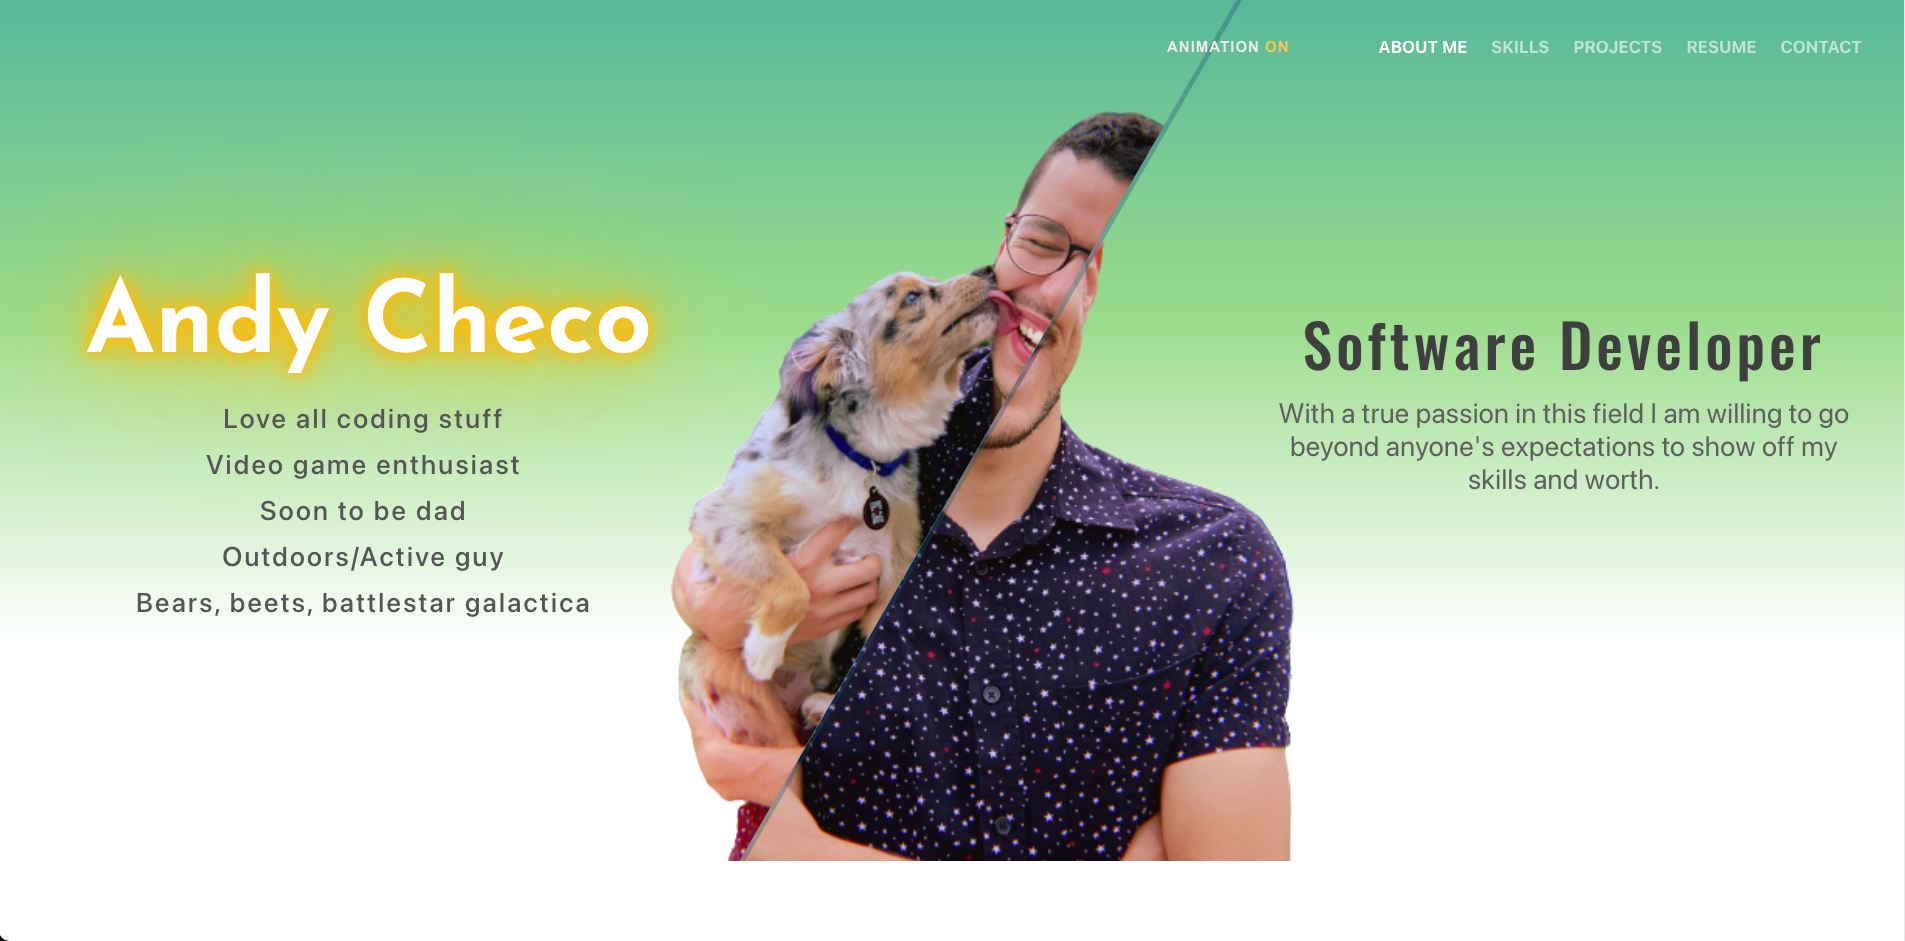
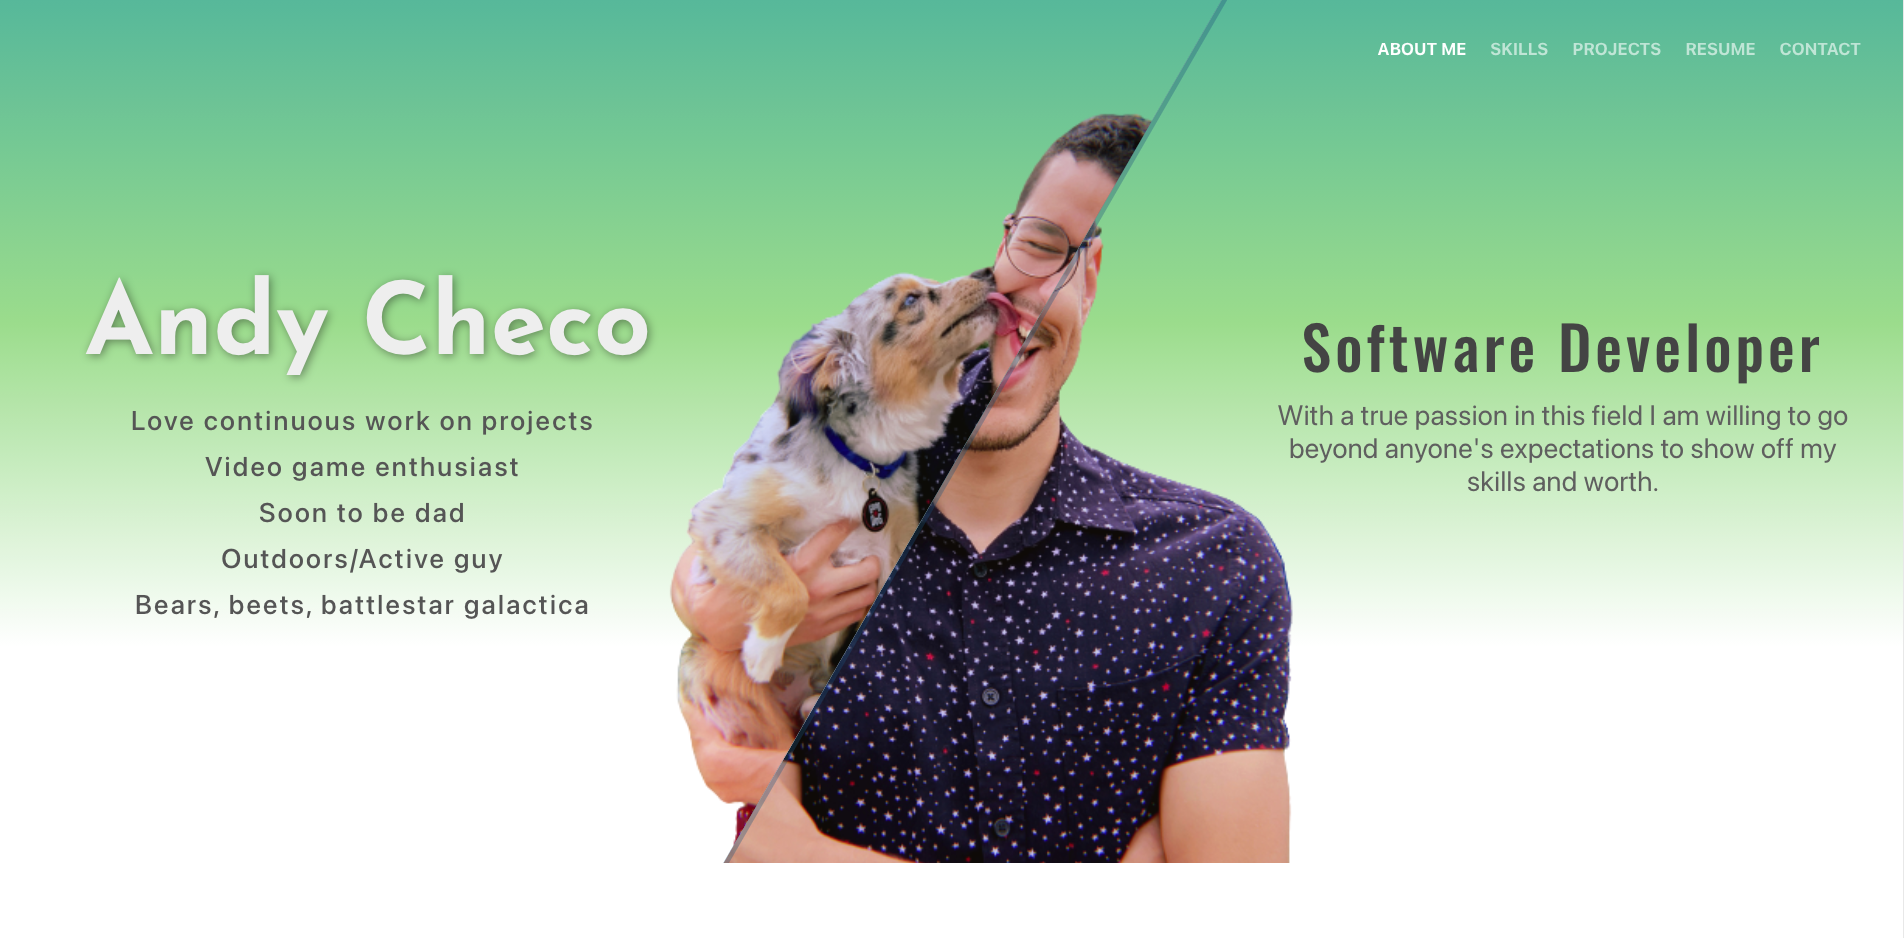
changes to the header and more details to the projects

diff --git a/src/components/Projects.js b/src/components/Projects.js
@@ -55,11 +55,16 @@ export default function Projects(props) {
 
             <h2 className="spamazon">Spamazon</h2>
             <p className="project-desc">
-              Spamazon is an e-commerce application with a lot of unique
-              features in it including, but not limited to, full CRUD, add to
-              cart functionality, mock purchase, full authentication, and more!
-              And if that didn't catch your eye we have an unlimited stock on
-              all products!
+              Spamazon is an e-commerce application using React class
+              components. I love using React because of how fast it allows you
+              to browse through and the unlimited amount of things you can do
+              with it. Using authentication with Firebase for the first time was
+              surprisingly a very simple task. I was also happy about using
+              another database like Postgres and using tables to store my data
+              for a change after using MongoDB in the past. Lastly, using a high
+              programming language like Python fit very well with the backend of
+              this project. Definitely would be using it in the future because
+              it is a time saver.
             </p>
             <div className={lowerLinks}>
               <a
@@ -141,13 +146,25 @@ export default function Projects(props) {
             key={"slide"}
           >
             <img className="slider-img" src={myhome} />
-            <h2 className="myhome">myHome</h2>
+            <h2 className="myhome">
+              myHome |{" "}
+              <span
+                style={{ color: "#080", fontSize: "14px", fontWeight: "900" }}
+              >
+                Ongoing project
+              </span>
+            </h2>
 
             <p className="project-desc">
-              This idea came from my wife and I searching for homes. In 'myHome'
-              you can search for southern state homes, (eg. Texas, Florida,
-              South Carolina, etc.) with a minimilist style. Looking for homes
-              down where the weather's a little nice? Start here!
+              In 'myHome' you can search for southern state houses and browse
+              through their details. Wanting to learn more of React, I built
+              this project using React functional components, React router,
+              hooks, and context. First time using React router and I absolutely
+              loved the feel of navigating with speed. Using a lot of different
+              hooks surprised me because of the amount of things you can achieve
+              with them. What challenged me the most was using context to pass
+              data around. It is wonderfully useful but it for sure takes some
+              learning and getting used to which I enjoy.
             </p>
             <div className={lowerLinks}>
               <a
@@ -219,10 +236,13 @@ export default function Projects(props) {
             <h2 className="portfolio">Portfolio</h2>
 
             <p className="project-desc">
-              Not only did I want another project in the books but CSS being one
-              of my favorite things about coding I had to enjoy myself. Lots of
-              fun building this portfolio. (ps. turning off animation won't hurt
-              my feelings, just don't wanna hurt your eyes.)
+              Wanting a one page portfolio did not have me debating what I was
+              going to build it with. Using React components helps me have
+              everything very organized and clear minded. Also, CSS being one of
+              my favorite languages and having a background in digital art, I
+              wanted to really play around with some of the things CSS can get
+              done and dive a little deeper into animations. All that and
+              keeping it simple at the same time.
             </p>
             <div className={lowerLinks}>
               <a target="blank" href="https://github.com/SavedCity/Portfolio">
@@ -279,8 +299,10 @@ export default function Projects(props) {
             <p className="project-desc">
               My main goal in this app was for users to really get something out
               of it. Reviewt is an app where you can go in and post a product
-              you own and leave a review on it. Good or bad. Just let it all out
-              by sharing your thoughts with others.
+              you own and leave a review on it. Using ejs files can get very
+              messy for me sometimes so keeping all of those intact and clean
+              was a bit challenging at first. I can really say I got what I
+              wanted out of this project and what I was wanting to implement.
             </p>
             <div className={lowerLinks}>
               <a
@@ -300,7 +322,7 @@ export default function Projects(props) {
                 style={{ fontSize: "25px" }}
                 className="devicon-javascript-plain colored"
               ></i>{" "}
-              Jquery{" "}
+              jQuery{" "}
               <i
                 style={{ fontSize: "25px" }}
                 className="devicon-jquery-plain colored"
@@ -350,8 +372,11 @@ export default function Projects(props) {
             <h2 className="enough">Enough with cravings</h2>
 
             <p className="project-desc">
-              Another passion of mine is food, but whose isn't? Get searching
-              for something delicious and satisfy your cravings!
+              Another passion of mine is food, but whose isn't? Making API calls
+              was something new for me when building this but the amount of data
+              that you can get from APIs are incredibly useful and awesome to go
+              through. I also really admire jQuery, if there is way to shorten
+              your code and get some simplicity from it then I'm all for it!
             </p>
             <div className={lowerLinks}>
               <a
@@ -374,7 +399,7 @@ export default function Projects(props) {
                 style={{ fontSize: "25px" }}
                 className="devicon-javascript-plain colored"
               ></i>{" "}
-              Jquery{" "}
+              jQuery{" "}
               <i
                 style={{ fontSize: "25px" }}
                 className="devicon-jquery-plain colored"
@@ -412,8 +437,11 @@ export default function Projects(props) {
             <p className="project-desc">
               Inspired from Medium.com this app is meant to post articles on
               whatever you may have in mind. A lot of frustruation came when
-              building it. It may not be as cool as Medium.com but at least
-              it's... 'Average'{" "}
+              building this project because it was my first time using React and
+              still had a lot to take in. Even though it was a challenge to get
+              everything done and still have some things wanting to implement,
+              it was a definite learning curve which, again, I love. It may not
+              be as cool as Medium.com but at least it's... 'Average'{" "}
             </p>
             <div className={lowerLinks}>
               <a

diff --git a/src/App.css b/src/App.css
@@ -64,6 +64,18 @@ html {
   margin-right: 30px;
 }
 
+.projects-link1 {
+  color: #ffba08 !important;
+  background: #0003;
+  padding: 5px 12px !important;
+  border-radius: 3px;
+  margin: 0 5px;
+}
+
+.projects-link1:hover {
+  background: #0005 !important;
+}
+
 .nav-links > a {
   text-decoration: none;
   color: #fff9;
@@ -92,6 +104,17 @@ html {
 .navbar2 > div > a:hover {
   color: #fff !important;
 }
+
+/* .projects-link {
+  background: #0003;
+  padding: 5px 12px !important;
+  border-radius: 3px;
+  margin: 0 5px;
+}
+
+.projects-link:hover {
+  background: #0005 !important;
+} */
 
 .fa-chevron-up {
   color: #fff;

diff --git a/src/Profile.css b/src/Profile.css
@@ -15,6 +15,7 @@
   transition: 0.3s;
   font-weight: 600;
   letter-spacing: 1px;
+  display: none;
 }
 .flick-on:hover,
 .flick-off:hover {
@@ -38,7 +39,7 @@
   margin-bottom: 100px;
 }
 .flicker {
-  animation: flicker 5s linear infinite;
+  /* animation: flicker 5s linear infinite; */
 }
 
 @keyframes flicker {
@@ -96,10 +97,10 @@
   font-family: Oswald;
   margin-left: 13%;
   width: 100%;
-  color: #eee;
+  color: #444;
   font-weight: 500;
   letter-spacing: 4px;
-  text-shadow: 0 0 20px #25a18e;
+  /* text-shadow: 0 0 20px #25a18e; */
 }
 
 .desc-right {

diff --git a/src/App.js b/src/App.js
@@ -104,7 +104,7 @@ export default function App() {
             <div class="description">
               <h1 className={flick}>Andy Checo</h1>
               <div className="desc-left center-column">
-                <p>Love all coding stuff</p>
+                <p>Love continuous work on projects</p>
                 <p>Video game enthusiast</p>
                 <p>Soon to be dad</p>
                 <p>Outdoors/Active guy</p>

diff --git a/src/components/Navbar.js b/src/components/Navbar.js
@@ -59,7 +59,9 @@ export default function Navbar(props) {
 
           <a href="#skills">SKILLS</a>
 
-          <a href="#projects">PROJECTS</a>
+          <a className="projects-link1" href="#projects">
+            PROJECTS
+          </a>
 
           <a href="#resume">RESUME</a>
 
